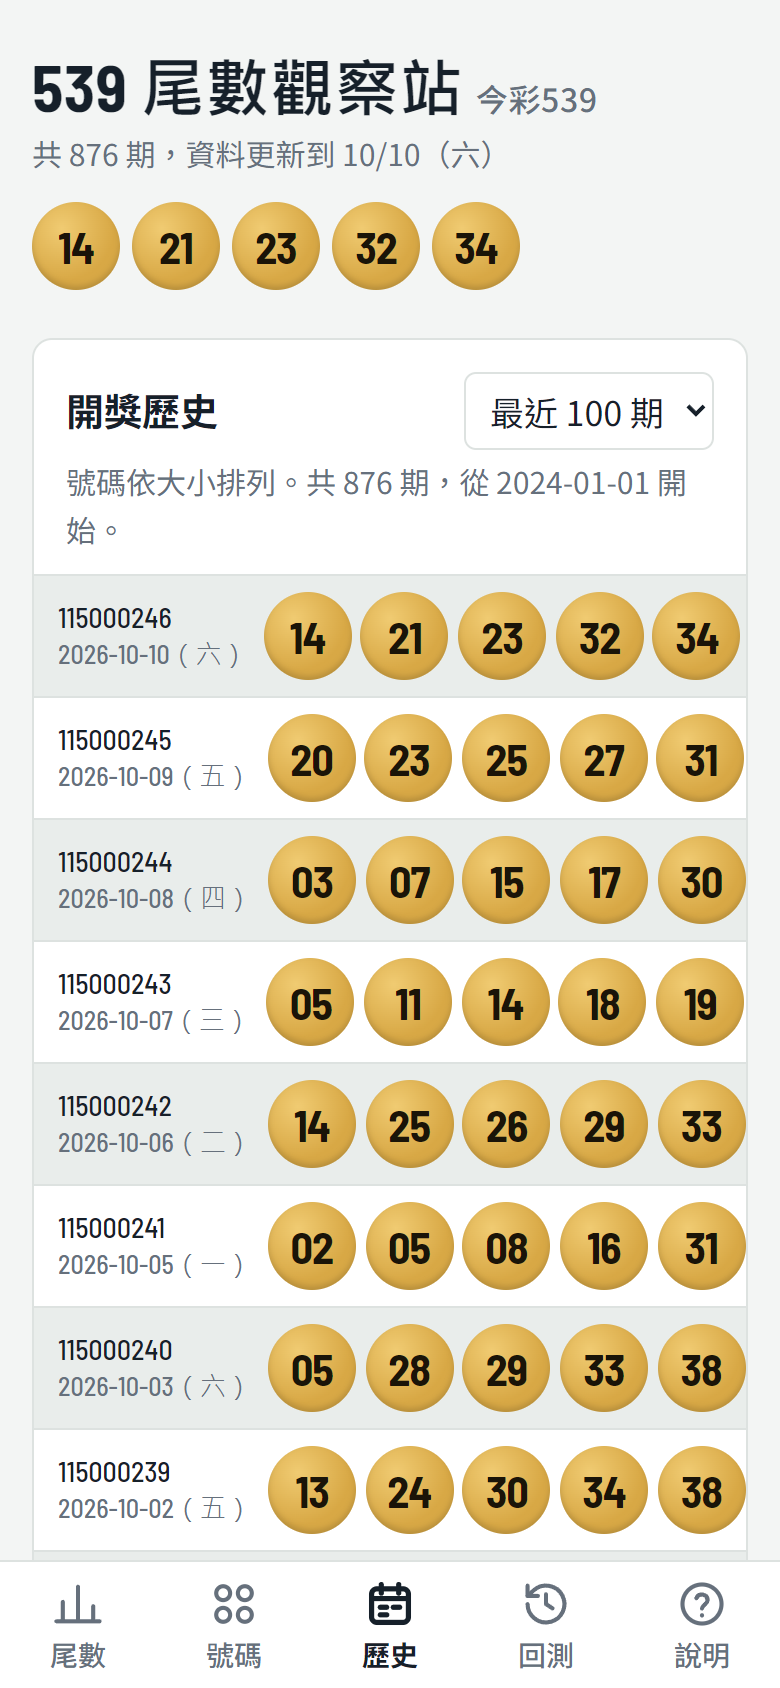
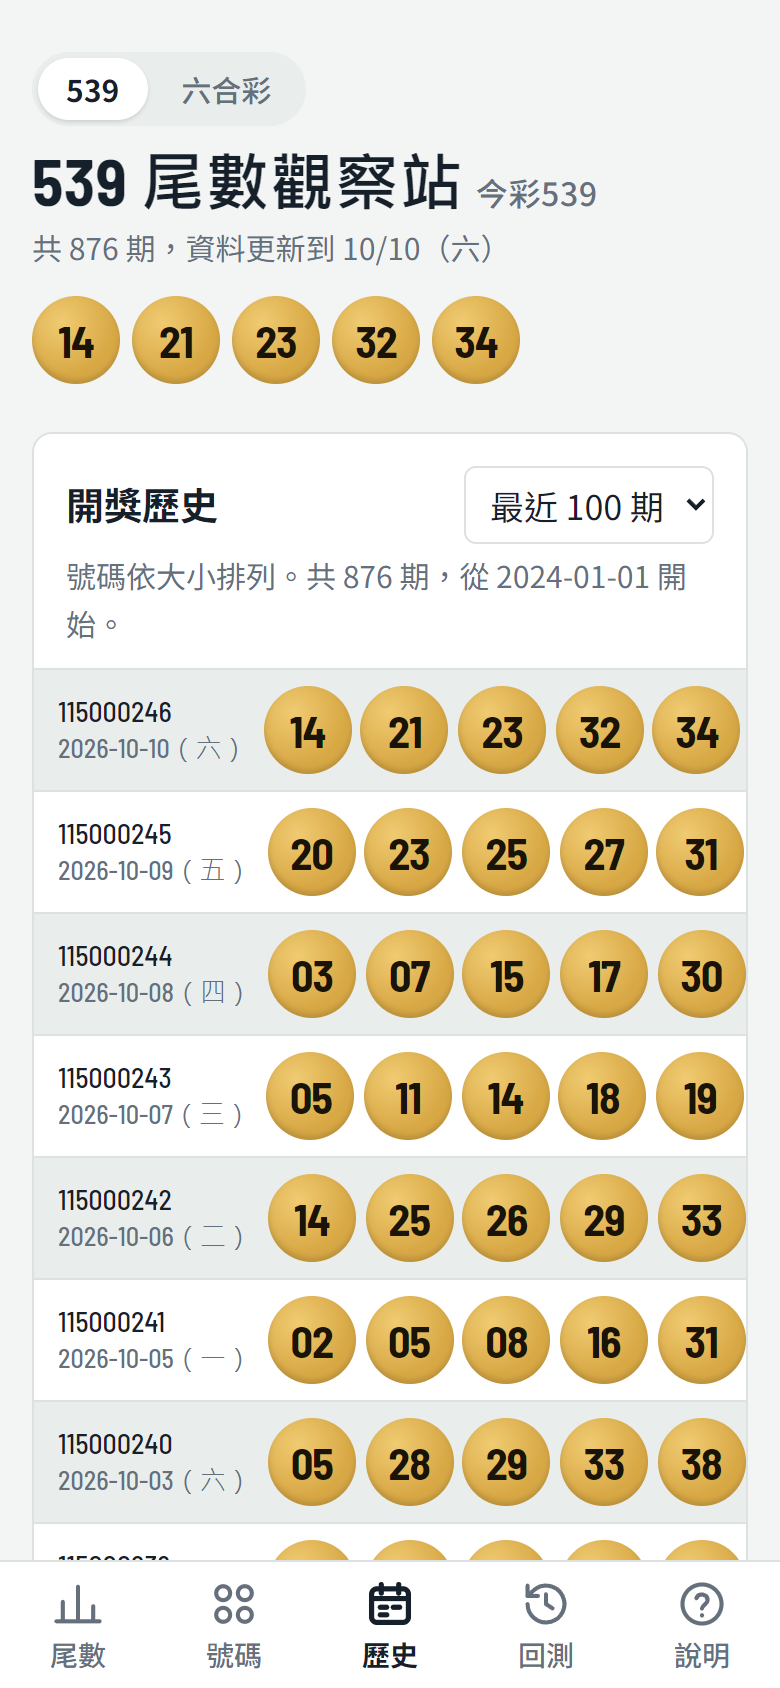
六合彩階段 2：入口選擇、切換，尾數／號碼／歷史支援香港六合彩
- 一打開先選「今彩539／香港六合彩」，頂端可隨時切換；兩種資料各自存在手機
- stats.js 加入遊戲參數（號碼總數、每期幾個）；539 新舊結果 26 項比對全部相同，驗收表數字不變
- 六合彩：6 主號＋特別號共 7 個一起統計；尾數分布、遺漏、走勢、交叉比對、單號冷熱、單號遺漏、連莊、組合特徵、歷史全部支援，理論值依 49 取 7 重算（與 100 萬期模擬比對誤差 < 0.1%）
- 歷史頁顯示賽馬會期號、6 個金球＋藍色特別號；六合彩先隱藏回測、資料鍵
- 說明頁、常見問題、親友 SOP、計畫書、說明截圖同步；版本號 20261011k

diff --git a/app/stats.js b/app/stats.js
@@ -5,8 +5,14 @@
  */
 
 const C395 = 575757;
-const P_TAIL = d => d === 0 ? 1 - 376992/C395 : 1 - 324632/C395; // 某尾數在一期中至少出現一次的機率
-const K = d => d === 0 ? 3 : 4; // 每個尾數有幾個號碼
+/* 遊戲參數（2026/10/11 加入香港六合彩）：GN = 號碼總數、GK = 每期統計幾個號碼。
+ * 539：39 個號碼、每期 5 個。六合彩：49 個號碼、每期 6 個主號 + 1 個特別號 = 7 個。
+ * 539 的計算式維持原本的寫法與順序，所以結果跟原版完全一樣。 */
+let GN = 39, GK = 5;
+function comb(n,k){ if(k<0||k>n) return 0; let r=1; for(let i=0;i<k;i++) r=r*(n-i)/(i+1); return Math.round(r); }
+function setGame(N,k){ GN=N; GK=k; P_NUM=GK/GN; }
+const P_TAIL = d => GN===39 ? (d === 0 ? 1 - 376992/C395 : 1 - 324632/C395) : 1 - comb(GN-K(d),GK)/comb(GN,GK); // 某尾數在一期中至少出現一次的機率
+const K = d => GN===39 ? (d === 0 ? 3 : 4) : Math.floor((GN-d)/10) + (d===0?0:1); // 每個尾數有幾個號碼
 
 /* ---------- 亂數 ---------- */
 function rng(seed){ return function(){ seed|=0; seed=seed+0x6D2B79F5|0; let t=Math.imul(seed^seed>>>15,1|seed); t=t+Math.imul(t^t>>>7,61|t)^t; return ((t^t>>>14)>>>0)/4294967296; }; }
@@ -18,7 +24,7 @@ function tailCounts(list){ const c=Array(10).fill(0); list.forEach(x=>x.n.forEac
 // 尾數分布：次數、理論值、卡方值（門檻 16.92）
 function tailDist(list){
   const c=tailCounts(list), N=list.length;
-  const exp=c.map((_,d)=>N*5*K(d)/39);
+  const exp=c.map((_,d)=>N*GK*K(d)/GN);
   let chi=0; c.forEach((o,d)=>chi+=(o-exp[d])**2/exp[d]);
   return {c, exp, chi};
 }
@@ -42,7 +48,7 @@ const numsOfTail = d => { const a=[]; for(let v=1;v<=39;v++) if(v%10===d) a.push
 function crossRank(list){
   const c=tailCounts(list), N=list.length;
   // z 分數：每期 5 球中某尾數的顆數是超幾何分布，變異數 = 5·p·(1-p)·34/38
-  const r=c.map((o,d)=>{ const p=K(d)/39, E=N*5*p, sd=Math.sqrt(N*5*p*(1-p)*34/38);
+  const r=c.map((o,d)=>{ const p=K(d)/GN, E=N*GK*p, sd=Math.sqrt(N*GK*p*(1-p)*(GN-GK)/(GN-1));
     return {d,o,E,dev:(o-E)/E,z:(o-E)/sd}; });
   const order=r.slice().sort((a,b)=>a.z-b.z).map(x=>x.d); // 冷 → 熱
   r.forEach(x=>x.rank=order.indexOf(x.d)+1);
@@ -75,21 +81,21 @@ const isDualHot = r => r.a.rank>=8&&r.b.rank>=8;
 
 /* ---------- 單號冷熱 ---------- */
 function numStats(L){
-  const N=L.length, E=N*5/39, sd=Math.sqrt(N*(5/39)*(34/39));
-  const cnt=Array(40).fill(0); L.forEach(x=>x.n.forEach(v=>cnt[v]++));
+  const N=L.length, E=N*GK/GN, sd=Math.sqrt(N*(GK/GN)*((GN-GK)/GN));
+  const cnt=Array(GN+1).fill(0); L.forEach(x=>x.n.forEach(v=>cnt[v]++));
   const arr=[]; let chi=0;
-  for(let v=1;v<=39;v++){ const z=(cnt[v]-E)/sd; arr.push({v,o:cnt[v],z}); chi+=(cnt[v]-E)**2/E; }
-  chi*=38/34; // 每期 5 球不重複，修正成近似卡方
+  for(let v=1;v<=GN;v++){ const z=(cnt[v]-E)/sd; arr.push({v,o:cnt[v],z}); chi+=(cnt[v]-E)**2/E; }
+  chi*=(GN-1)/(GN-GK); // 每期開出的號碼不重複，修正成近似卡方
   return {E, arr, chi};
 }
 
 /* ---------- 單號遺漏 ---------- */
 // 每個號碼：目前連續幾期沒開、歷史最長幾期沒開、最後一次開出日期
 // 每期某個號碼開出的機率 = 5/39；平均遺漏 = (1-p)/p ≈ 6.8 期
-const P_NUM = 5/39;
+let P_NUM = 5/39;
 function numGaps(L){
   const res=[];
-  for(let v=1; v<=39; v++){
+  for(let v=1; v<=GN; v++){
     let run=0, longest=0, last=null;
     for(let i=0;i<L.length;i++){
       if(L[i].n.includes(v)){ longest=Math.max(longest,run); run=0; last=L[i].d; } else run++;
@@ -103,7 +109,7 @@ function numGaps(L){
 /* ---------- 中幾號 ---------- */
 const PRIZE=[0,0,50,300,20000,8000000];
 const MEM=new WeakMap();
-function mset(x){ let m=MEM.get(x); if(!m){ m=new Uint8Array(40); x.n.forEach(v=>m[v]=1); MEM.set(x,m); } return m; }
+function mset(x){ let m=MEM.get(x); if(!m){ m=new Uint8Array(50); x.n.forEach(v=>m[v]=1); MEM.set(x,m); } return m; }
 function hits(pick,x){ const m=mset(x); let h=0; for(const v of pick) h+=m[v]; return h; }
 
 /* ---------- 選號回測 ---------- */
@@ -313,8 +319,10 @@ function hitSeries(L, nums, need, n){
 
 /* ---------- 連莊 ---------- */
 const REP_THEO=[278256,231880,59840,5610,170,1].map(c=>c/575757);
+// 連莊理論值：上一期 GK 個號碼裡，這一期又開出 j 個的機率（超幾何分布）
+function repTheo(){ return GN===39 ? REP_THEO : [...Array(GK+1).keys()].map(j=>comb(GK,j)*comb(GN-GK,GK-j)/comb(GN,GK)); }
 function repeatStats(L){
-  const ks=Array(6).fill(0); let sum=0;
+  const ks=Array(GK+1).fill(0); let sum=0;
   for(let i=1;i<L.length;i++){ const k=hits(L[i-1].n,L[i]); ks[k]++; sum+=k; }
   const n=L.length-1;
   return {ks, n, mean:sum/n};
@@ -338,6 +346,34 @@ function theory(){
   }
   for(const k in T) T[k]=T[k].map(c=>c/575757);
   return THEO=T;
+}
+const SUM_LABELS_M6=["≤139","140–159","160–179","180–199","200–219","≥220"];
+const sumBinM6=s=>s<140?0:s<160?1:s<180?2:s<200?3:s<220?4:5;
+const BIG_FROM = () => GN===39 ? 20 : 25;   // 大號：539 是 20–39，六合彩是 25–49
+function featsG(n){
+  let s=0,odd=0,big=0,pairs=0; const b=BIG_FROM();
+  for(let j=0;j<n.length;j++){ s+=n[j]; if(n[j]%2) odd++; if(n[j]>=b) big++; if(j&&n[j]-n[j-1]===1) pairs++; }
+  return {sum:sumBinM6(s), odd, big, cons:Math.min(pairs,2)};
+}
+let THEO_G=null;
+function theoryG(){
+  if(THEO_G && THEO_G.N===GN && THEO_G.k===GK) return THEO_G;
+  const tot=comb(GN,GK), T={N:GN,k:GK,sum:Array(6).fill(0),odd:Array(GK+1).fill(0),big:Array(GK+1).fill(0),cons:Array(3).fill(0)};
+  // 和值：動態規劃 dp[j][s] = 選 j 個號碼、總和 s 的組合數
+  const maxS=GN*GK; let dp=[...Array(GK+1)].map(()=>new Float64Array(maxS+1)); dp[0][0]=1;
+  for(let v=1;v<=GN;v++) for(let j=Math.min(GK,v);j>=1;j--) for(let s=maxS;s>=v;s--) dp[j][s]+=dp[j-1][s-v];
+  for(let s=0;s<=maxS;s++) if(dp[GK][s]) T.sum[sumBinM6(s)]+=dp[GK][s];
+  const nOdd=Math.ceil(GN/2), nBig=GN-BIG_FROM()+1;
+  for(let j=0;j<=GK;j++){ T.odd[j]=comb(nOdd,j)*comb(GN-nOdd,GK-j); T.big[j]=comb(nBig,j)*comb(GN-nBig,GK-j); }
+  // 連號：剛好 j 組相鄰的組合數 = C(GK−1, j) × C(GN−GK+1, GK−j)
+  for(let j=0;j<GK;j++) T.cons[Math.min(j,2)]+=comb(GK-1,j)*comb(GN-GK+1,GK-j);
+  for(const k of ["sum","odd","big","cons"]) T[k]=T[k].map(c=>c/tot);
+  return THEO_G=T;
+}
+function comboCountsG(L){
+  const A={sum:Array(6).fill(0),odd:Array(GK+1).fill(0),big:Array(GK+1).fill(0),cons:Array(3).fill(0)};
+  L.forEach(x=>{ const f=featsG(x.n); A.sum[f.sum]++; A.odd[f.odd]++; A.big[f.big]++; A.cons[f.cons]++; });
+  return A;
 }
 function comboCounts(L){
   const A={sum:Array(6).fill(0),odd:Array(6).fill(0),big:Array(6).fill(0),cons:Array(3).fill(0)};

diff --git a/app/style.css b/app/style.css
@@ -178,3 +178,24 @@ table.trk th{font-size:13px;line-height:1.2;text-align:center}
 table.trk td{text-align:center}
 table.trk .sballs{flex-wrap:nowrap;gap:2px}
 .n.hit3{background:var(--hot);color:#fff;border-radius:4px;padding:0 5px}
+/* 彩券選擇（2026/10/11 加入六合彩） */
+.chooser{position:fixed;inset:0;z-index:50;background:var(--bg);display:flex;align-items:center;justify-content:center;padding:24px}
+.chooser[hidden]{display:none}
+.chooser-box{width:100%;max-width:380px;display:flex;flex-direction:column;gap:14px;text-align:center}
+.chooser-box h2{font-size:22px;margin:0 0 6px}
+.chooser-box button{display:flex;flex-direction:column;gap:4px;align-items:center;padding:22px 16px;border-radius:16px;border:1.5px solid var(--line);background:var(--panel);color:var(--ink);cursor:pointer}
+.chooser-box button b{font:700 26px var(--txt)}
+.chooser-box button span{font-size:14.5px;color:var(--muted)}
+.chooser-box button:active{transform:scale(.98)}
+.chooser-box p{color:var(--muted);font-size:14px;margin:4px 0 0}
+.gsw{display:inline-flex;gap:3px;background:var(--soft);border-radius:999px;padding:3px;margin-bottom:10px}
+.gsw button{border:none;background:none;color:var(--muted);font:500 15px var(--txt);padding:5px 14px;border-radius:999px;cursor:pointer}
+.gsw button[aria-pressed="true"]{background:var(--panel);color:var(--ink);font-weight:700;box-shadow:0 1px 2px rgba(0,0,0,.12)}
+.gball.sp{background:radial-gradient(circle at 34% 30%,#8FB3FF,#3E6FD8 62%);color:#fff}
+.plus{font:700 18px var(--num);color:var(--muted);align-self:center;margin:0 1px}
+.latest.m6 .gball{width:min(40px,10vw);height:min(40px,10vw);font-size:min(19px,5vw)}
+.latest.m6{gap:4px}
+.hrow.m6{flex-direction:column;align-items:stretch;gap:6px}
+.hrow.m6 .hmeta{flex-direction:row;gap:10px;align-items:baseline}
+.hrow.m6 .hballs{gap:4px}
+.hrow.m6 .gball{width:min(40px,10.2vw);height:min(40px,10.2vw);font-size:min(19px,5vw)}

diff --git a/app/index.html b/app/index.html
@@ -16,13 +16,22 @@
 <link rel="preconnect" href="https://fonts.googleapis.com">
 <link rel="preconnect" href="https://fonts.gstatic.com" crossorigin>
 <link href="https://fonts.googleapis.com/css2?family=Barlow+Semi+Condensed:wght@500;600;700&family=Noto+Sans+TC:wght@400;500;700&display=swap" rel="stylesheet">
-<link rel="stylesheet" href="style.css?v=20261011j">
+<link rel="stylesheet" href="style.css?v=20261011k">
 </head>
 <body>
 <div id="ptr" aria-live="polite"></div>
+<div id="chooser" class="chooser" hidden>
+  <div class="chooser-box">
+    <h2>要看哪一種彩券？</h2>
+    <button data-game="539"><b>今彩539</b><span>39 個號碼開 5 個・每週一到六</span></button>
+    <button data-game="m6"><b>香港六合彩</b><span>49 個號碼開 6 個＋特別號・每週約 3 期</span></button>
+    <p>進入後也可以在最上面切換</p>
+  </div>
+</div>
 <div class="wrap">
 <header>
-  <h1>539 尾數觀察站<small>今彩539</small></h1>
+  <div class="gsw" id="gsw" role="group" aria-label="切換彩券"><button data-game="539">539</button><button data-game="m6">六合彩</button></div>
+  <h1 id="title">539 尾數觀察站<small>今彩539</small></h1>
   <div class="meta" id="meta">讀取資料中…</div>
   <div class="alert" id="alert" role="status" hidden></div>
   <div class="latest" id="latest"></div>
@@ -50,7 +59,7 @@
     <svg viewBox="0 0 24 24" aria-hidden="true"><ellipse cx="12" cy="5.5" rx="7.5" ry="2.8"/><path d="M4.5 5.5v13c0 1.5 3.4 2.8 7.5 2.8s7.5-1.3 7.5-2.8v-13"/><path d="M4.5 12c0 1.5 3.4 2.8 7.5 2.8s7.5-1.3 7.5-2.8"/></svg>資料</button>
 </nav>
 
-<script src="stats.js?v=20261011j"></script>
-<script src="app.js?v=20261011j"></script>
+<script src="stats.js?v=20261011k"></script>
+<script src="app.js?v=20261011k"></script>
 </body>
 </html>

diff --git a/tools/help-screenshots.js b/tools/help-screenshots.js
@@ -5,7 +5,7 @@
 const puppeteer = require("puppeteer-core");
 const os = require("os"), path = require("path");
 const CHROME = "C:/Program Files/Google/Chrome/Application/chrome.exe";
-const SHOTS = [["dist", "home"], ["cross", "cross"], ["num", "num"], ["hist", "hist"], ["ev", "ev"]];  // [分頁, 檔名]
+const SHOTS = [["dist", "home"], ["cross", "cross"], ["num", "num"], ["hist", "hist"], ["ev", "ev"], ["m6:hist", "hist_m6"]];  // "m6:分頁" = 六合彩  // [分頁, 檔名]
 
 (async () => {
   const b = await puppeteer.launch({executablePath: CHROME, headless: true,

diff --git a/app/sw.js b/app/sw.js
@@ -2,7 +2,7 @@
  * 網頁檔案存一份在手機裡。改了 app 的檔案時，把 VERSION 換掉，舊的快取會自動清掉。
  * 開獎資料不在這裡處理：app.js 自己會把資料存在 localStorage。
  */
-const VERSION = "20261011j";
+const VERSION = "20261011k";
 const CACHE = "t539-" + VERSION;
 const SHELL = [
   "./",
@@ -20,6 +20,7 @@ const SHELL = [
   "./help/num.png",
   "./help/ev.png",
   "./help/hist.png",
+  "./help/hist_m6.png",
 ];
 
 self.addEventListener("install", e => {
